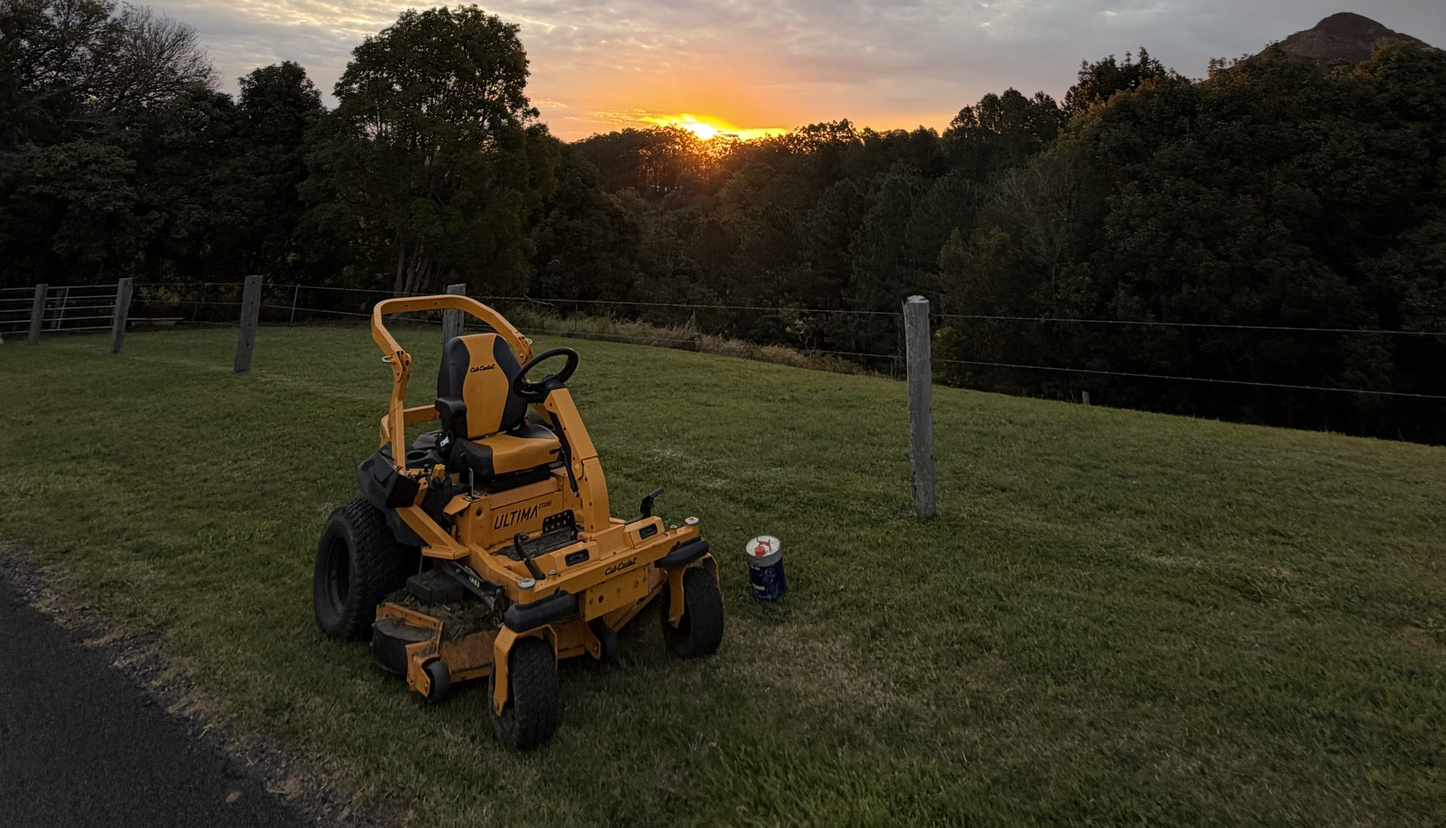
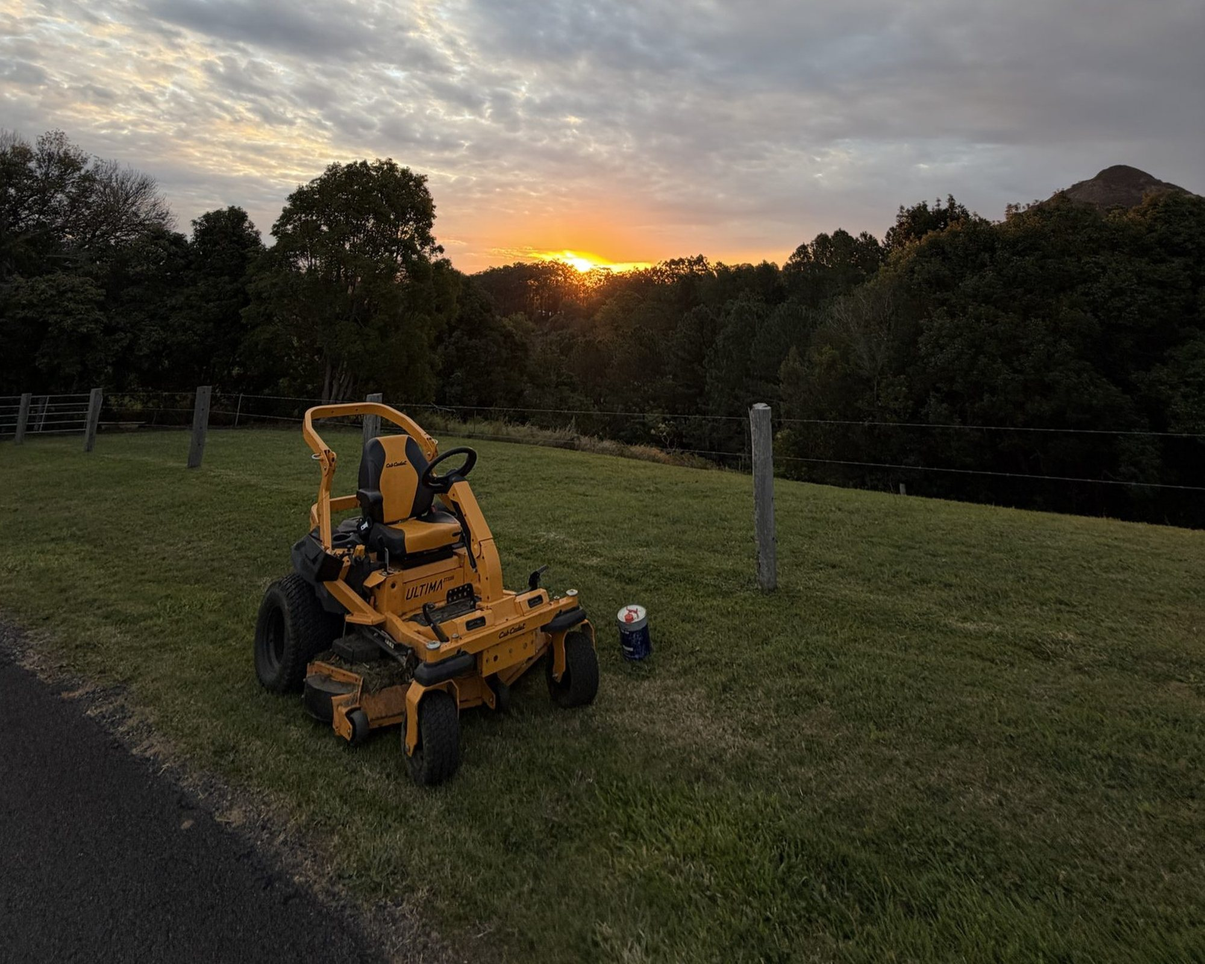
Add files via upload

diff --git a/index.html b/index.html
@@ -593,13 +593,17 @@ function Services({ onQuote }) {
 function Gallery() {
   const [lightbox, setLightbox] = useState(null);
   const photos = [
-    { src: PHOTOS.galleryA, label: 'Hedge Trimming', area: '1 / 1 / 3 / 3' },
-    { src: PHOTOS.edgedPath, label: 'Edge Work', area: '1 / 3 / 2 / 5' },
-    { src: PHOTOS.striped, label: 'Lawn Mowing', area: '2 / 3 / 3 / 4' },
-    { src: PHOTOS.backyard, label: 'Backyard Mow', area: '2 / 4 / 3 / 5' },
-    { src: PHOTOS.whipper, label: 'Whipper Snippering', area: '3 / 1 / 4 / 2' },
-    { src: PHOTOS.hedge, label: 'Hedge Work', area: '3 / 2 / 4 / 3' },
-    { src: PHOTOS.mowedFront, label: 'Acreage Lawn', area: '3 / 3 / 4 / 5' }
+    { src: 'work-01.jpg', label: 'On Site' },
+    { src: 'work-02.jpg', label: 'Whipper Snippering' },
+    { src: 'work-03.jpg', label: 'Acreage Mowing' },
+    { src: 'work-04.jpg', label: 'Edging' },
+    { src: 'work-05.jpg', label: 'Acreage Lawns' },
+    { src: 'work-06.jpg', label: 'Hedging' },
+    { src: 'work-07.jpg', label: 'Clean Ups' },
+    { src: 'work-08.jpg', label: 'Residential Lawns' },
+    { src: 'work-09.jpg', label: 'Slope Mowing' },
+    { src: 'work-10.jpg', label: 'Lawn Mowing' },
+    { src: 'work-11.jpg', label: 'Finished Lawn', wide: true }
   ];
 
   useEffect(() => {
@@ -617,10 +621,10 @@ function Gallery() {
           <h2 style={{ fontFamily: "'Barlow Condensed', sans-serif", fontWeight: 900, fontSize: 'clamp(40px, 5vw, 64px)', textTransform: 'uppercase', marginTop: '8px', lineHeight: 1 }}>Our Work</h2>
         </SR>
         <SR delay={0.1}>
-          <div className="gallery-mosaic" style={{ display: 'grid', gridTemplateColumns: 'repeat(4, 1fr)', gridTemplateRows: 'repeat(3, 220px)', gap: '6px' }}>
+          <div className="gallery-mosaic" style={{ display: 'grid', gridTemplateColumns: 'repeat(4, 1fr)', gridAutoRows: '240px', gap: '6px' }}>
             {photos.map((p, i) => (
               <div key={i} className="gallery-item" onClick={() => setLightbox(p)}
-                style={{ gridArea: p.area, position: 'relative', overflow: 'hidden', cursor: 'zoom-in' }}>
+                style={{ gridColumn: p.wide ? 'span 2' : 'auto', position: 'relative', overflow: 'hidden', cursor: 'zoom-in' }}>
                 <img src={p.src} alt={p.label} style={{ width: '100%', height: '100%', objectFit: 'cover', display: 'block', transition: 'transform 0.4s ease' }}
                   onMouseEnter={e => e.target.style.transform = 'scale(1.05)'}
                   onMouseLeave={e => e.target.style.transform = 'scale(1)'}
@@ -631,16 +635,6 @@ function Gallery() {
                 <div style={{ position: 'absolute', top: '12px', right: '12px', background: 'rgba(0,0,0,0.5)', borderRadius: '50%', width: '32px', height: '32px', display: 'flex', alignItems: 'center', justifyContent: 'center', fontSize: '14px', backdropFilter: 'blur(4px)' }}>🔍</div>
               </div>
             ))}
-          </div>
-        </SR>
-        <SR delay={0.2} style={{ marginTop: '32px' }}>
-          <div style={{ display: 'grid', gridTemplateColumns: 'repeat(auto-fit, minmax(320px, 1fr))', gap: '12px' }}>
-            <video autoPlay muted={true} loop playsInline style={{ width: '100%', height: 'auto', display: 'block', borderRadius: '4px', background: '#000' }}>
-              <source src="clip1.mp4" type="video/mp4" />
-            </video>
-            <video autoPlay muted={true} loop playsInline style={{ width: '100%', height: 'auto', display: 'block', borderRadius: '4px', background: '#000' }}>
-              <source src="clip2.mp4" type="video/mp4" />
-            </video>
           </div>
         </SR>
       </div>
